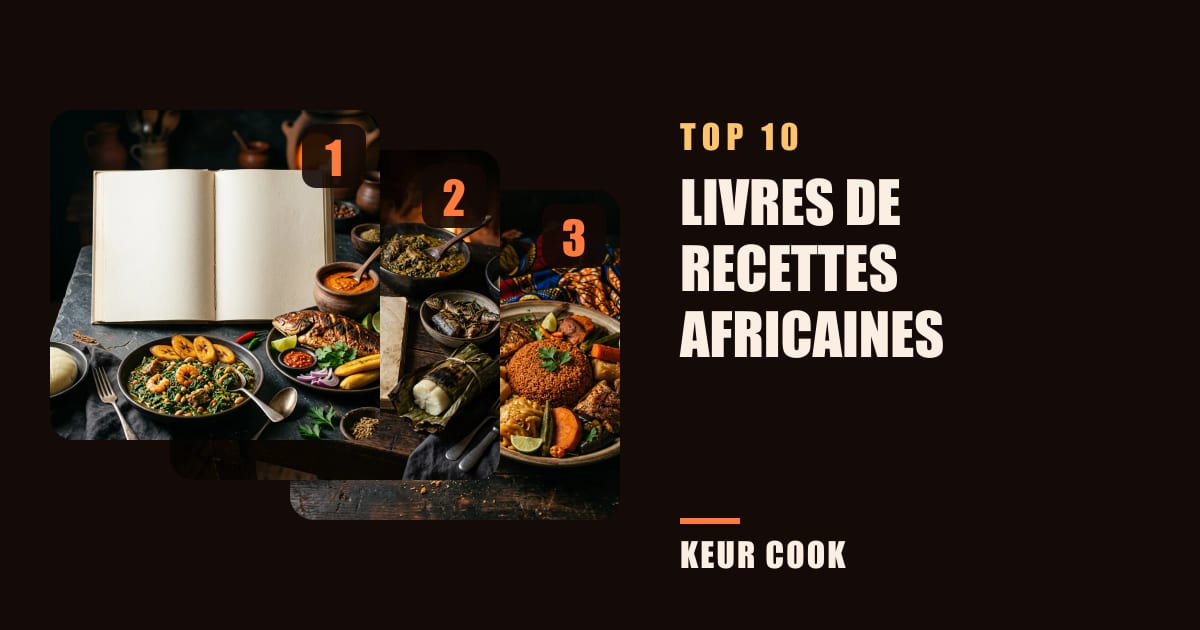
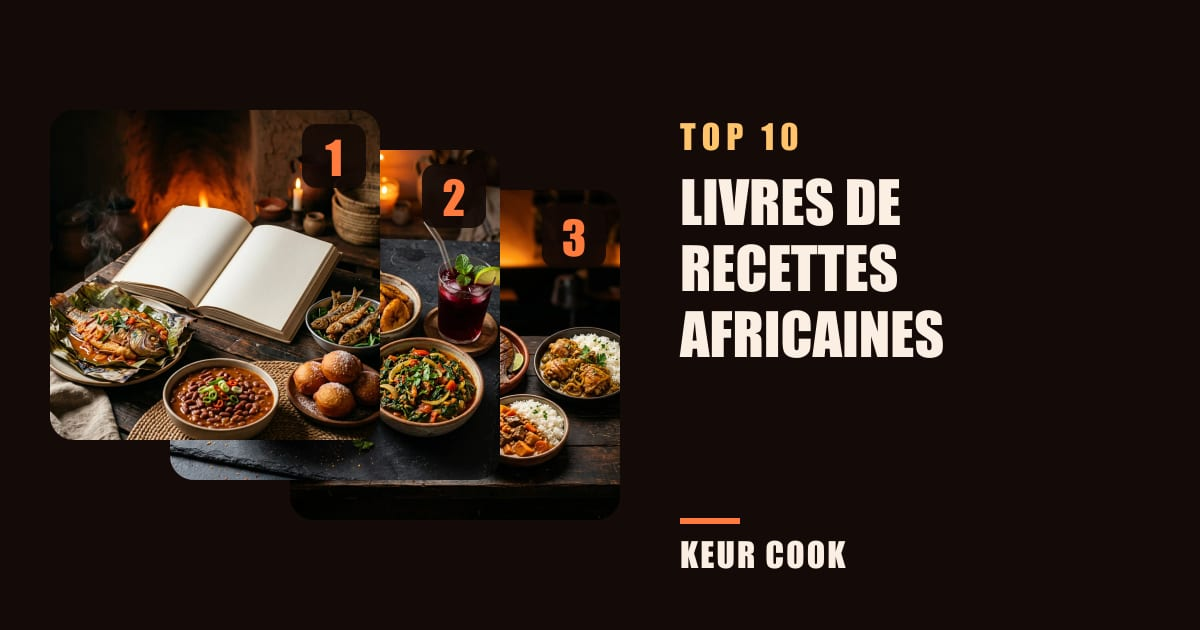
feat(top10): Livres classés selon la note des acheteurs (même peu évalués), n° 1 nommé dans l'intro des Farines
Livres : relevé Amazon.fr du 19/10/2026, à égalité le plus évalué devant, sans note à la fin ; nombre de pages dans chaque texte.
Descriptions pour Google des onglets reclassés mises à jour (elles annonçaient encore l'ancien classement).

Changed region(s): [[0.0308, 0.1508, 0.5242, 0.8444]]

diff --git a/src/lib/demo/top10.ts b/src/lib/demo/top10.ts
@@ -7,10 +7,17 @@ import { demoProducts } from "./catalog";
  */
 const RELEVE = "2026-10-19";
 
-/** Introduction des onglets classés selon la note des acheteurs ; le n° 1 est nommé à la suite. */
-function introNote(quoi: string, feminin: boolean): string {
+/**
+ * Introduction des onglets classés selon la note des acheteurs ; le n° 1 est nommé à la suite.
+ * `peuDAvis` (livres) : tous les produits sont gardés, même avec peu d'évaluations, et ceux sans note vont à la fin.
+ */
+function introNote(quoi: string, feminin: boolean, peuDAvis?: { qui: string; suite: string }): string {
   const date = new Date(`${RELEVE}T12:00:00Z`).toLocaleDateString("fr-FR", { day: "numeric", month: "long", year: "numeric", timeZone: "Europe/Paris" });
-  return `Notre sélection de ${quoi}, parmi ${feminin ? "celles" : "ceux"} de la boutique, ${feminin ? "classées" : "classés"} selon la note moyenne des acheteurs sur Amazon.fr, relevée le ${date} ; à égalité, ${feminin ? "la plus évaluée" : "le plus évalué"} passe devant. Seuls les produits disponibles avec au moins 10 évaluations sont retenus. Les notes servent à classer mais ne sont pas affichées, et nous n'avons pas testé ces produits.`;
+  const debut = `Notre sélection de ${quoi}, parmi ${feminin ? "celles" : "ceux"} de la boutique, ${feminin ? "classées" : "classés"} selon la note moyenne des acheteurs sur Amazon.fr, relevée le ${date} ; à égalité, ${feminin ? "la plus évaluée" : "le plus évalué"} passe devant.`;
+  if (peuDAvis) {
+    return `${debut} Certains ${peuDAvis.qui} n'ont encore que quelques évaluations, parfois une seule : leur note est donc moins sûre, et ceux qui n'ont aucune note sont placés à la fin. Les notes servent à classer mais ne sont pas affichées, et nous n'avons pas testé ces ${peuDAvis.qui}. ${peuDAvis.suite}`;
+  }
+  return `${debut} Seuls les produits disponibles avec au moins 10 évaluations sont retenus. Les notes servent à classer mais ne sont pas affichées, et nous n'avons pas testé ces produits.`;
 }
 
 /**
@@ -25,7 +32,7 @@ const tops: Top10[] = [
     title: "Top 10 des ustensiles indispensables de la cuisine africaine",
     seoTitle: "Top 10 des ustensiles de la cuisine africaine",
     description:
-      "Faitout, marmite à riz, mortiers, araignée, couscoussier : notre top 10 des ustensiles, classés selon le nombre de recettes du site où ils servent.",
+      "Araignée, faitout, spatules, mortiers, couscoussier : notre top 10 des ustensiles, classés selon l'avis des acheteurs sur Amazon.fr.",
     intro: introNote("dix ustensiles de cuisine", false),
     updated: "2026-10-19",
     rankBy: "note-acheteurs",
@@ -135,7 +142,7 @@ const tops: Top10[] = [
     title: "Top 10 des ingrédients pour débuter la cuisine africaine",
     seoTitle: "Top 10 des ingrédients de la cuisine africaine",
     description:
-      "Pâte d'arachide, poivre de Selim, huile de palme rouge, soumbala : notre top 10 des ingrédients, classés selon le nombre de recettes du site qui les emploient.",
+      "Farine de maïs blanc, pain de singe, poivre de Penja, feuilles de manioc, soumbala : notre top 10 des ingrédients, classés selon l'avis des acheteurs.",
     intro: introNote("dix ingrédients", false),
     updated: "2026-10-19",
     rankBy: "note-acheteurs",
@@ -552,7 +559,7 @@ const tops: Top10[] = [
     tab: "Épices",
     title: "Top 10 des épices et condiments africains",
     description:
-      "Poivre de Selim, poivre de Penja, soumbala, berbéré, yaji : notre top 10 des épices et condiments, classés selon le nombre de recettes du site.",
+      "Poivre voatsiperifery, vanille de Madagascar, maniguette, pili-pili, poivre de Penja : notre top 10 des épices, classées selon l'avis des acheteurs.",
     intro: introNote("dix épices", true),
     updated: "2026-10-19",
     rankBy: "note-acheteurs",
@@ -665,7 +672,7 @@ const tops: Top10[] = [
     description:
       "Couscous de mil, attiéké, farine de maïs blanc, fonio, gari, farine de teff : notre top 10, classé selon le nombre de recettes du site qui les emploient.",
     intro:
-      "Notre sélection de dix céréales, semoules et farines d'Afrique, parmi celles de la boutique. Elles sont classées selon le nombre de recettes du site qui les emploient. À égalité, la plus courante passe devant.",
+      "Notre sélection de dix céréales, semoules et farines d'Afrique, parmi celles de la boutique. Elles sont classées selon le nombre de recettes du site qui les emploient. À égalité, la plus courante passe devant. N° 1 : Couscous de mil (thiéré), en tête car quatre recettes du site l'emploient, du thiéré mbuum au thiakry, au ngalakh et au dégué.",
     updated: "2026-10-19",
     rankBy: "recettes",
     items: [
@@ -781,80 +788,73 @@ const tops: Top10[] = [
     tab: "Livres",
     title: "Top 10 des livres de recettes africaines",
     description:
-      "Cheikh Niang, Youssou N'Dour, cuisines du Cameroun, du Sénégal et des deux Congo : notre top 10 des livres de recettes africaines en français.",
-    intro:
-      "Notre sélection de dix livres de recettes africaines en français, parmi ceux de la boutique. Ils sont classés par nombre de pages, du plus complet au plus court. Les images sont des illustrations Keur Cook : chaque édition vendue sur Amazon a sa propre couverture.",
+      "Cuisines des deux Congo, du Sénégal et du Cameroun, Youssou N'Dour, Cheikh Niang : notre top 10 des livres de recettes africaines, selon l'avis des lecteurs.",
+    intro: introNote("dix livres de recettes africaines en français", false, {
+      qui: "livres",
+      suite: "Les images sont des illustrations Keur Cook : chaque édition vendue sur Amazon a sa propre couverture.",
+    }),
     updated: "2026-10-19",
-    rankBy: "pages",
+    rankBy: "note-acheteurs",
+    classementLe: RELEVE,
     items: [
       {
-        product: "livre-200-recettes-camerounaises",
-        mesure: 218,
-        pourquoi:
-          "Le plus épais de notre sélection : 218 pages et 200 recettes camerounaises, des plats traditionnels des différentes régions du pays aux versions revisitées. Chaque recette est expliquée étape par étape, avec des astuces de préparation. C'est un livre relié, paru en 2026.",
-        recettes: [],
-      },
-      {
-        product: "livre-la-cuisine-congolaise",
-        mesure: 216,
-        pourquoi:
-          "Un ouvrage de référence de 216 pages, publié chez L'Harmattan : Fidèle Mialoundama et Isabelle Goma Mouyokani y recensent les recettes les plus courantes de toutes les régions du Congo. Le livre se veut une mémoire des recettes et des aliments traditionnels. Une bonne base pour qui s'intéresse au pays.",
-        recettes: [],
-      },
-      {
-        product: "livre-senegal-cuisine-intime-et-gourmande",
-        mesure: 192,
-        pourquoi:
-          "Le chanteur Youssou N'Dour raconte la cuisine de son enfance à Dakar : le marché, la préparation du repas entre femmes, la famille autour du grand plat commun. Les photographies d'Isabelle Rozenbaum accompagnent ses recettes. Un beau livre de 192 pages, publié aux éditions de La Martinière.",
-        recettes: [],
-      },
-      {
         product: "livre-dans-ma-cuisine-congolaise",
-        mesure: 178,
         pourquoi:
-          "Gisèle Mbeku Andjelani partage plus de 70 recettes de la RD Congo, des rives du Kivu à Kinshasa : sombe, madesu, liboke, sambaza, ndazi, mikate. Chacune est accompagnée d'une petite histoire. Notre recette de liboké de poisson permet de goûter l'un de ces plats.",
+          "Gisèle Mbeku Andjelani partage plus de 70 recettes de la RD Congo, des rives du Kivu à Kinshasa : sombe, madesu, liboke, sambaza, ndazi, mikate. Chacune est accompagnée d'une petite histoire, sur 178 pages. Notre recette de liboké de poisson permet de goûter l'un de ces plats.",
         recettes: ["liboke-de-poisson"],
       },
       {
-        product: "livre-plats-express-saveurs-d-afrique",
-        mesure: 160,
+        product: "livre-afro-vegan",
         pourquoi:
-          "Cheikh Niang, le cuisinier @niangcook, propose 60 recettes inédites prêtes en 30 minutes maximum, entre goûts d'Afrique et saveurs du monde. Riz à la tomate express, pancakes de plantain ou afro burger : des idées rapides pour se lancer. Publié chez Solar, avec les photos de Laurent Moynat.",
+          "Le plus court de notre sélection : 80 pages et 50 recettes afro véganes, salées et sucrées, entrées, plats, desserts et boissons. Chaque recette est expliquée pas à pas et accompagnée d'une photo en couleur. Pour cuisiner africain sans produits d'origine animale.",
         recettes: [],
       },
       {
-        product: "livre-le-meilleur-de-la-cuisine-congolaise",
-        mesure: 155,
+        product: "livre-cuisine-du-senegal-81-recettes",
         pourquoi:
-          "Lukusa Jessica présente les plats emblématiques de la cuisine congolaise, de l'accompagnement à la pâtisserie. Chaque recette est accompagnée d'une histoire, d'anecdotes et de conseils de technique, pour les débutants comme pour les cuisiniers aguerris. Un broché de 155 pages, paru en 2025.",
-        recettes: [],
+          "Kaya N'Dor réunit, en 109 pages, 81 recettes traditionnelles du Sénégal, avec des explications pas à pas, des astuces de réussite et des substitutions d'ingrédients. Le livre vise les grands classiques, comme le thiéboudienne, le yassa ou le mafé. Vous trouverez aussi ces trois plats sur notre site, pour comparer les versions.",
+        recettes: ["thieboudienne", "poulet-yassa", "mafe"],
       },
       {
         product: "livre-cuisine-d-afrique-et-d-ailleurs",
-        mesure: 144,
         pourquoi:
           "Le premier livre de @niangcook reprend les classiques de ses vidéos : des recettes pas à pas, simples et accessibles. Il mêle les saveurs d'Afrique de l'Ouest et d'Afrique centrale à des influences du monde entier. Un livre relié de 144 pages, publié chez Solar.",
         recettes: [],
       },
       {
         product: "livre-grain-d-afrique",
-        mesure: 128,
         pourquoi:
-          "Aïssatou Mbaye propose plus de 60 recettes du quotidien relevées d'une touche africaine : pancakes à la farine de mil, houmous de niébé et cajou, chips de plantain, madeleines au manioc. Une bonne porte d'entrée pour glisser des saveurs africaines dans les plats de tous les jours. Publié aux éditions Marie Claire en 2026.",
+          "Aïssatou Mbaye propose plus de 60 recettes du quotidien relevées d'une touche africaine : pancakes à la farine de mil, houmous de niébé et cajou, chips de plantain, madeleines au manioc. Une bonne porte d'entrée pour glisser des saveurs africaines dans les plats de tous les jours. Un broché de 128 pages, publié aux éditions Marie Claire en 2026.",
         recettes: [],
       },
       {
-        product: "livre-cuisine-du-senegal-81-recettes",
-        mesure: 109,
+        product: "livre-senegal-cuisine-intime-et-gourmande",
         pourquoi:
-          "Kaya N'Dor réunit 81 recettes traditionnelles du Sénégal, avec des explications pas à pas, des astuces de réussite et des substitutions d'ingrédients. Le livre vise les grands classiques, comme le thiéboudienne, le yassa ou le mafé. Vous trouverez aussi ces trois plats sur notre site, pour comparer les versions.",
-        recettes: ["thieboudienne", "poulet-yassa", "mafe"],
+          "Le chanteur Youssou N'Dour raconte la cuisine de son enfance à Dakar : le marché, la préparation du repas entre femmes, la famille autour du grand plat commun. Les photographies d'Isabelle Rozenbaum accompagnent ses recettes. Un beau livre de 192 pages, publié aux éditions de La Martinière.",
+        recettes: [],
       },
       {
-        product: "livre-afro-vegan",
-        mesure: 80,
+        product: "livre-plats-express-saveurs-d-afrique",
         pourquoi:
-          "Le plus court de notre sélection : 80 pages et 50 recettes afro véganes, salées et sucrées, entrées, plats, desserts et boissons. Chaque recette est expliquée pas à pas et accompagnée d'une photo en couleur. Pour cuisiner africain sans produits d'origine animale.",
+          "Cheikh Niang, le cuisinier @niangcook, propose 60 recettes inédites prêtes en 30 minutes maximum, entre goûts d'Afrique et saveurs du monde. Riz à la tomate express, pancakes de plantain ou afro burger : des idées rapides pour se lancer. Un livre de 160 pages publié chez Solar, avec les photos de Laurent Moynat.",
+        recettes: [],
+      },
+      {
+        product: "livre-le-meilleur-de-la-cuisine-congolaise",
+        pourquoi:
+          "Lukusa Jessica présente les plats emblématiques de la cuisine congolaise, de l'accompagnement à la pâtisserie. Chaque recette est accompagnée d'une histoire, d'anecdotes et de conseils de technique, pour les débutants comme pour les cuisiniers aguerris. Un broché de 155 pages, paru en 2025.",
+        recettes: [],
+      },
+      {
+        product: "livre-la-cuisine-congolaise",
+        pourquoi:
+          "Un ouvrage de référence de 216 pages, publié chez L'Harmattan : Fidèle Mialoundama et Isabelle Goma Mouyokani y recensent les recettes les plus courantes de toutes les régions du Congo. Le livre se veut une mémoire des recettes et des aliments traditionnels. Une bonne base pour qui s'intéresse au pays.",
+        recettes: [],
+      },
+      {
+        product: "livre-200-recettes-camerounaises",
+        pourquoi:
+          "Le plus épais de notre sélection : 218 pages et 200 recettes camerounaises, des plats traditionnels des différentes régions du pays aux versions revisitées. Chaque recette est expliquée étape par étape, avec des astuces de préparation. C'est un livre relié, paru en 2026.",
         recettes: [],
       },
     ],
@@ -887,7 +887,7 @@ const tops: Top10[] = [
     tab: "Thés et cafés",
     title: "Top 10 des thés et cafés d'Afrique",
     description:
-      "Cafés d'Éthiopie, du Kenya, du Rwanda et du Cameroun, kinkeliba, rooibos : notre top 10 des thés et cafés d'Afrique, avec nos recettes et conseils.",
+      "Rooibos, thés du Kenya, cafés de Tanzanie, du Rwanda, d'Éthiopie et du Burundi, kinkeliba : notre top 10 des thés et cafés d'Afrique.",
     intro: introNote("dix cafés, thés et infusions d'Afrique", false),
     updated: "2026-10-19",
     rankBy: "note-acheteurs",

diff --git a/tests/top10.test.ts b/tests/top10.test.ts
@@ -18,7 +18,7 @@ const links = (value: RichText) => value.flatMap((p) => (typeof p === "string" ?
 const conseilFile = (slug: string) => join(process.cwd(), "content", "conseils", `${slug}.md`);
 
 /** Texte commun des onglets classés selon la note des acheteurs : il nomme la note et précise qu'elle n'est pas affichée. */
-const CRITERE = /^Notre sélection de .+, classée?s selon la note moyenne des acheteurs sur Amazon\.fr, relevée le \d{1,2} \S+ \d{4} ; à égalité, (le|la) plus évaluée? passe devant\. Seuls les produits disponibles avec au moins 10 évaluations sont retenus\. Les notes servent à classer mais ne sont pas affichées, et nous n'avons pas testé ces produits\. /;
+const CRITERE = /^Notre sélection de .+, classée?s selon la note moyenne des acheteurs sur Amazon\.fr, relevée le \d{1,2} \S+ \d{4} ; à égalité, (le|la) plus évaluée? passe devant\. (Seuls les produits disponibles avec au moins 10 évaluations sont retenus\.|Certains \S+ n'ont encore que quelques évaluations, parfois une seule : leur note est donc moins sûre, et ceux qui n'ont aucune note sont placés à la fin\.) Les notes servent à classer mais ne sont pas affichées, et nous n'avons pas testé ces \S+\. /;
 
 function texts(t: Top10): string[] {
   return [
@@ -76,6 +76,9 @@ describe("Top 10", () => {
           assert.ok(t.intro.endsWith(`N° 1 : ${first.name}.`), "le n° 1 doit être nommé à la fin de l'introduction");
           return;
         }
+        // Les autres règles : le n° 1 est nommé dans l'introduction.
+        const premier = demoProducts.find((p) => p.slug === t.items[0].product)!;
+        assert.ok(t.intro.includes(`N° 1 : ${premier.name}`), "le n° 1 doit être nommé dans l'introduction");
         const parMesure = ["taille", "contenance", "pages", "puissance"].includes(t.rankBy);
         if (parMesure) assert.ok(t.items.every((it) => typeof it.mesure === "number"), "mesure manquante");
         const score = (it: Top10["items"][number]) =>
